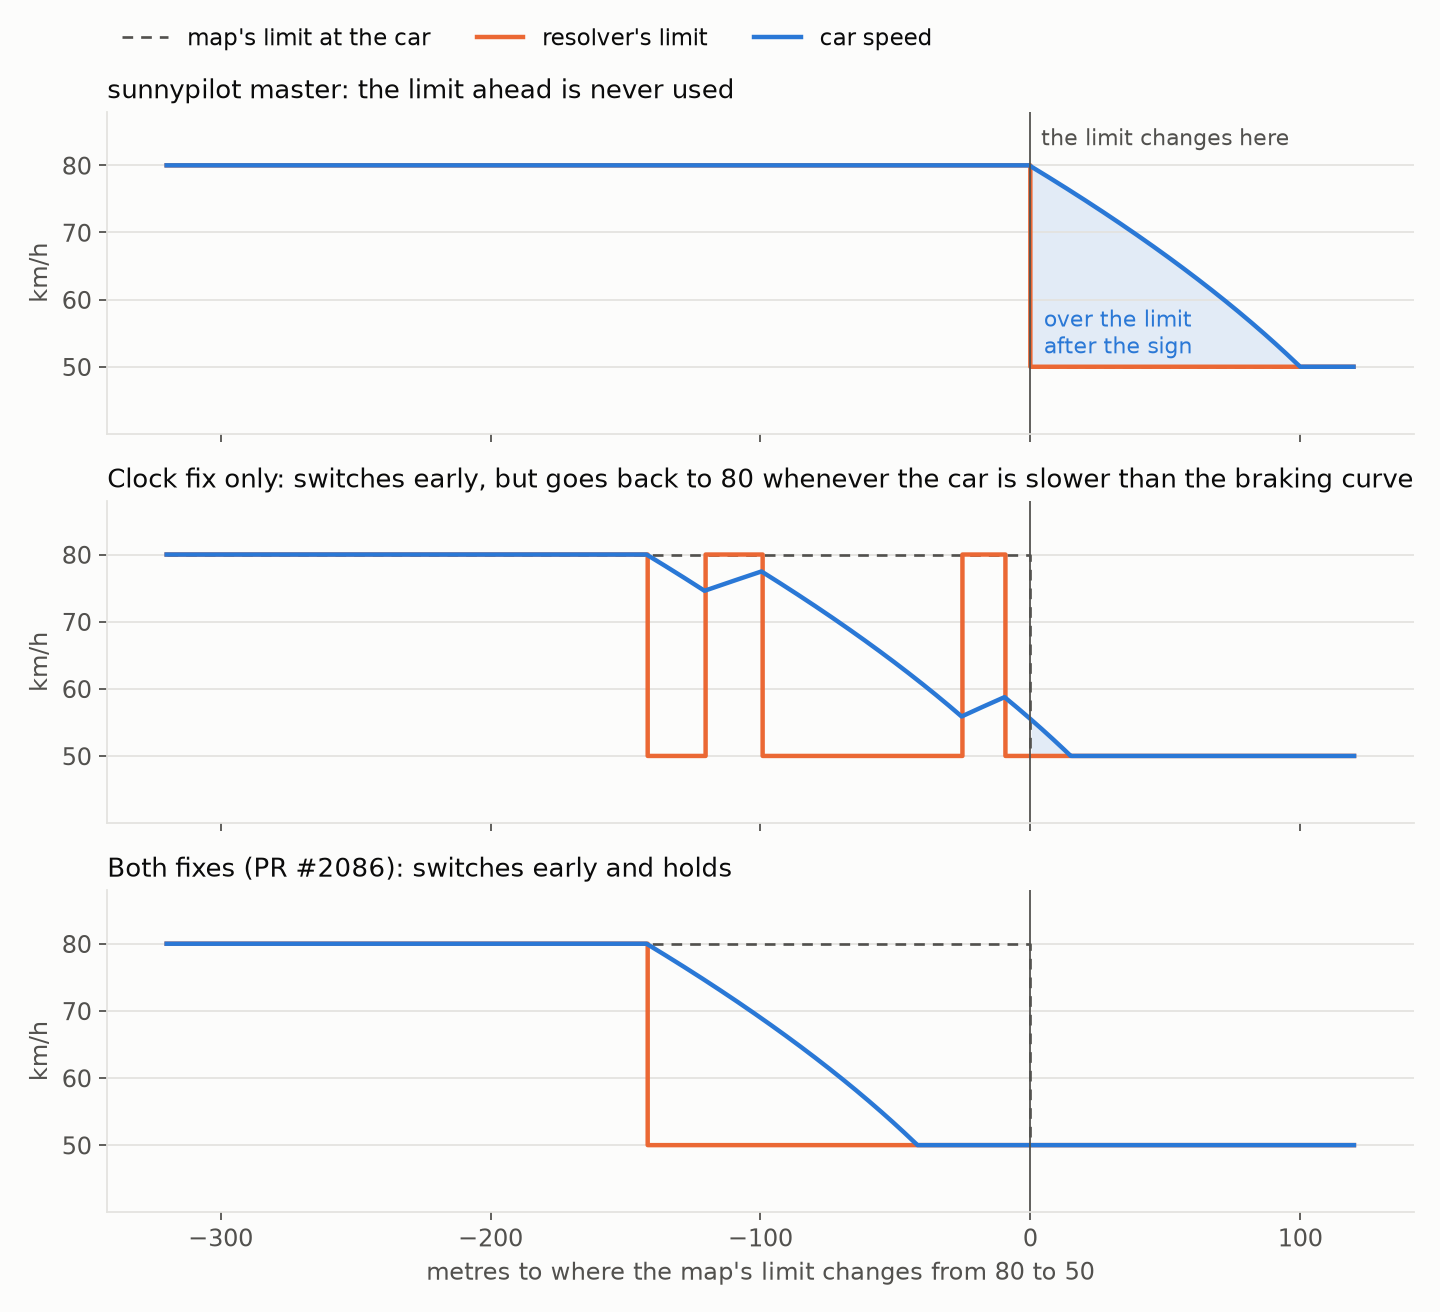
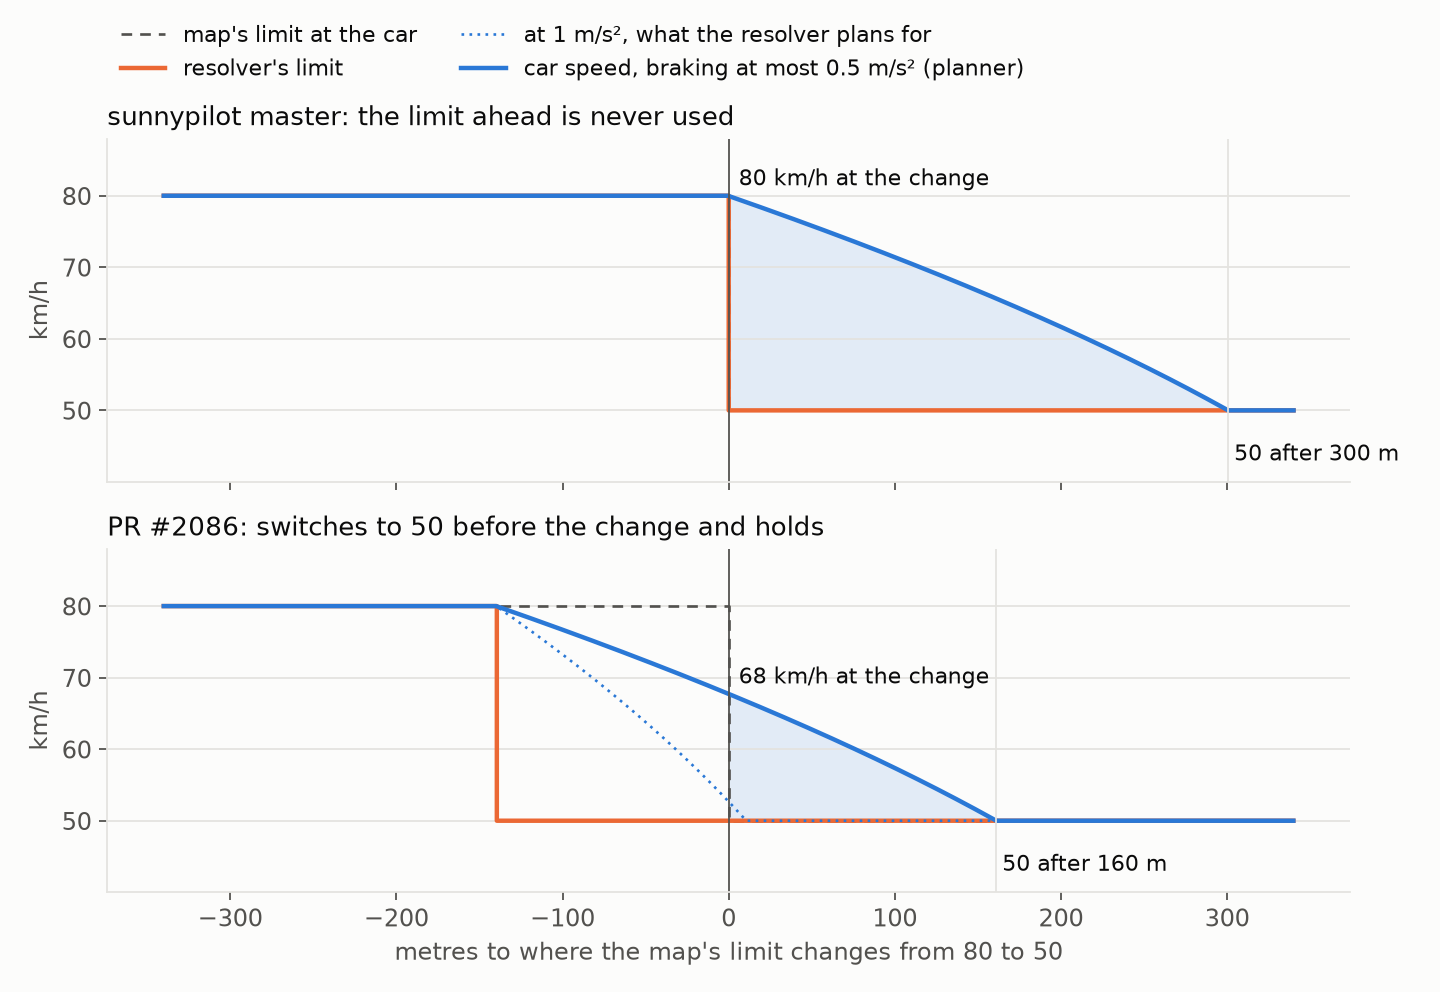
Community post on PR #2086: corrected as reviewed, the planner's 0.5 m/s² braking in the picture
The PR is open and the numbers come from resolver replays; the car still reaches the lower limit after the change
point, since the planner brakes at most at A_CRUISE_MIN; the four drops mapd never announced; pictures by absolute URL.

diff --git a/docs/community/pr-2086/make_figures.py b/docs/community/pr-2086/make_figures.py
@@ -1,5 +1,6 @@
 # The two pictures of the community post on sunnypilot PR #2086 (Speed Limit Resolver, Map Data limit ahead).
-# 1. sim.png: a simple simulation of the resolver's map logic on master, with the clock fix only, and with both fixes.
+# 1. sim.png: a simple simulation of the resolver's map logic on master and with the PR, the car braking at most as the
+#    planner does (A_CRUISE_MIN).
 # 2. replay.png: the counts measured by replaying 5 logged drives (31 drops of the map's limit, Map Data only).
 # Run: uv run --no-project --with matplotlib python docs/community/pr-2086/make_figures.py
 from pathlib import Path
@@ -12,7 +13,8 @@ import matplotlib.pyplot as plt
 OUT = Path(__file__).parent
 SURFACE, INK, MUTED, GRID = '#fcfcfb', '#0b0b0b', '#52514e', '#e4e3df'
 BLUE, ORANGE = '#2a78d6', '#eb6834'
-LIMIT_ADAPT_ACC = -1.0  # m/s², as in sunnypilot
+LIMIT_ADAPT_ACC = -1.0  # m/s², as in sunnypilot's resolver
+A_CRUISE_MIN = -0.5  # m/s², the planner's strongest braking for a lower cruise speed
 KPH = 1 / 3.6
 
 plt.rcParams.update({'font.family': 'DejaVu Sans', 'font.size': 11, 'axes.edgecolor': GRID, 'axes.labelcolor': MUTED,
@@ -28,8 +30,6 @@ def resolver(version: str, v_ego: float, current: float, ahead: float, distance:
         # the limit ahead never shrinks below the braking distance.
         distance += v_ego * 1.79e9
         v_start = v_ego
-    elif version == 'clock':
-        v_start = v_ego
     else:
         v_start = max(v_ego, current)
     if 0 < ahead < v_start:
@@ -40,20 +40,18 @@ def resolver(version: str, v_ego: float, current: float, ahead: float, distance:
     return current
 
 
-def drive(version: str):
+def drive(version: str, brake: float = -A_CRUISE_MIN):
     """A car at 80 km/h approaching an 80 -> 50 change of the map's limit; it follows the resolver's limit, braking at
-    1.5 m/s² and accelerating at 0.8 m/s². The resolver is read once a second (mapd sends the limit ahead at 1 Hz)."""
+    brake m/s². The resolver is read once a second (mapd sends the limit ahead at 1 Hz)."""
     current, ahead = 80 * KPH, 50 * KPH
-    x, v, dt, t = -320.0, current, 0.02, 0.0
+    x, v, dt, t = -340.0, current, 0.02, 0.0
     xs, speeds, limits = [], [], []
     limit = current
-    while x < 120:
+    while x < 340:
         if t % 1.0 < dt or x >= 0 > x - v * dt:
             limit = resolver(version, v, current, ahead, -x)
         if v > limit:
-            v = max(limit, v - 1.5 * dt)
-        elif v < limit:
-            v = min(limit, v + 0.8 * dt)
+            v = max(limit, v - brake * dt)
         xs.append(x)
         speeds.append(v / KPH)
         limits.append(limit / KPH)
@@ -64,16 +62,23 @@ def drive(version: str):
 
 def sim():
     rows = (('master', 'sunnypilot master: the limit ahead is never used'),
-            ('clock', 'Clock fix only: switches early, but goes back to 80 whenever the car is slower than the braking curve'),
-            ('both', 'Both fixes (PR #2086): switches early and holds'))
-    fig, axes = plt.subplots(3, 1, figsize=(9, 8.2), sharex=True, sharey=True)
+            ('pr', 'PR #2086: switches to 50 before the change and holds'))
+    fig, axes = plt.subplots(2, 1, figsize=(9, 6.2), sharex=True, sharey=True)
     for ax, (version, title) in zip(axes, rows):
         xs, speeds, limits = drive(version)
-        ax.plot([-320, 0, 0, 120], [80, 80, 50, 50], color=MUTED, lw=1.2, ls=(0, (4, 3)), label="map's limit at the car")
+        ax.plot([-340, 0, 0, 340], [80, 80, 50, 50], color=MUTED, lw=1.2, ls=(0, (4, 3)), label="map's limit at the car")
         ax.plot(xs, limits, color=ORANGE, lw=2, label="resolver's limit", drawstyle='steps-post')
-        ax.plot(xs, speeds, color=BLUE, lw=2, label='car speed')
+        if version == 'pr':
+            ideal_x, ideal_v, _ = drive(version, brake=-LIMIT_ADAPT_ACC)
+            ax.plot(ideal_x, ideal_v, color=BLUE, lw=1.2, ls=(0, (1, 2)), label='at 1 m/s², what the resolver plans for')
+        ax.plot(xs, speeds, color=BLUE, lw=2, label='car speed, braking at most 0.5 m/s² (planner)')
         ax.fill_between(xs, 50, speeds, where=[x > 0 and s > 50.5 for x, s in zip(xs, speeds)], color=BLUE, alpha=0.12,
                         lw=0)
+        at_change = next(s for x, s in zip(xs, speeds) if x >= 0)
+        reached = next(x for x, s in zip(xs, speeds) if s <= 50.05)
+        ax.text(6, at_change + 1.5, f'{at_change:.0f} km/h at the change', color=INK, fontsize=10)
+        ax.axvline(reached, color=GRID, lw=0.8)
+        ax.text(reached + 4, 43, f'50 after {round(reached, -1):.0f} m', color=INK, fontsize=10)
         ax.axvline(0, color=MUTED, lw=0.8)
         ax.set_title(title, loc='left', fontsize=11.5, color=INK, pad=6)
         ax.set_ylim(40, 88)
@@ -82,13 +87,16 @@ def sim():
         for side in ('top', 'right'):
             ax.spines[side].set_visible(False)
         ax.set_ylabel('km/h')
-    axes[0].text(4, 83, 'the limit changes here', color=MUTED, fontsize=10)
-    axes[0].text(5, 52, 'over the limit\nafter the sign', color=BLUE, fontsize=10)
     axes[-1].set_xlabel("metres to where the map's limit changes from 80 to 50")
-    handles, labels = axes[0].get_legend_handles_labels()
-    fig.legend(handles, labels, loc='upper left', ncol=3, frameon=False, bbox_to_anchor=(0.07, 0.995), fontsize=10.5,
+    handles, labels = [], []
+    for ax in axes[::-1]:
+        for h, l in zip(*ax.get_legend_handles_labels()):
+            if l not in labels:
+                handles.append(h)
+                labels.append(l)
+    fig.legend(handles, labels, loc='upper left', ncol=2, frameon=False, bbox_to_anchor=(0.07, 0.995), fontsize=10,
                labelcolor=INK)
-    fig.tight_layout(rect=(0, 0, 1, 0.96))
+    fig.tight_layout(rect=(0, 0, 1, 0.92))
     fig.savefig(OUT / 'sim.png', dpi=160)
 
 

diff --git a/docs/community/pr-2086/post.md b/docs/community/pr-2086/post.md
@@ -1,72 +1,51 @@
-# Speed Limit Resolver: the map's "limit ahead" never kicked in. Fix in PR #2086
+# Speed Limit Assist: fixing advance adaptation to lower map limits — PR #2086
 
-**TL;DR**: when the map knows that a lower limit is coming, sunnypilot is supposed to start slowing down *before* the change point. On master this never happens, because of a clock mix-up. [PR #2086](https://github.com/sunnypilot/sunnypilot/pull/2086) fixes it and makes the early switch hold until the change point.
+**TL;DR**: when the map knows that a lower limit is coming, sunnypilot is meant to start slowing down *before* the change point. On master this never happens, because of a clock mix-up. [PR #2086](https://github.com/sunnypilot/sunnypilot/pull/2086) fixes it and makes the early switch hold. The PR is open, not merged yet. The numbers below come from replaying the resolver on my logged drives, not from road tests of the fixed code.
 
 ## What should happen
 
-mapd publishes the next limit and its distance (`liveMapDataSP.speedLimitAhead` / `speedLimitAheadDistance`, the "50 in 220 m" sign on the screen). When the next limit is lower than your speed, the resolver should switch to it once the distance gets shorter than the braking distance at −1 m/s² (`LIMIT_ADAPT_ACC`). That way you are already at the new limit when you reach the sign.
+mapd publishes the next limit and its distance (the "50 in 220 m" on the screen). When the next limit is lower than your speed, the resolver should switch to it once the distance is shorter than the braking distance at 1 m/s² (`LIMIT_ADAPT_ACC`), so the car starts slowing down before the sign.
 
-## What actually happens on master
+## What happens on master
 
-There is even a `# FIXME-SP: this is not working as expected` above that code. Here is why:
+The resolver mixes two clocks (there is a `FIXME-SP` above that code):
 
 ```python
-gps_fix_age = time.monotonic() - gps_data.unixTimestampMillis * 1e-3
-distance_since_fix = self.v_ego * (time.monotonic() - gps_data.unixTimestampMillis * 1e-3)
+time.monotonic() - gps_data.unixTimestampMillis * 1e-3   # about -1.79e9 s on the device
 ```
 
-`time.monotonic()` counts seconds since boot, while `unixTimestampMillis` is Unix time. On the device the difference is about **−1.79 billion seconds**, so:
+Seconds since boot minus Unix time. The distance driven since the GPS fix comes out at about −1.79 billion seconds × speed, so the distance to the limit ahead never gets shorter than the braking distance: **the early switch never happens**, and braking only starts at the change point. The 10 s "map data too old" check never fires either. The unit tests mocked the GPS time with `time.monotonic()`, which hid the bug.
 
-- `distance_since_fix` is about `−v_ego × 1.79e9` m, so the distance to the limit ahead never gets shorter than the braking distance. **The early switch never happens**; the car only starts braking after it has passed the change point.
-- The 10 s "map data too old" check never rejects anything.
-
-The unit tests mocked `unixTimestampMillis` with `time.monotonic()`, which hid the bug.
-
-A second issue shows up once the clock is right. The switch needed `v_ego` above the next limit, and the braking distance was computed from `v_ego`. If the car slowed down a bit faster than the braking curve, or got below the new limit before the change point, the resolver went back to the higher current limit, and the car sped up again until the change point.
+A second issue shows up once the clock is right: the braking distance came from the car's speed, so when the car slowed down a bit faster than the curve, the resolver went back to the higher limit until the change point.
 
 ## The fix (2 small commits)
 
-1. Measure the ages on the same clock: the GPS age comes from `sm.recv_time` (monotonic), and the distance driven is counted from when `liveMapDataSP` was received, since mapd measures the distance when it sends it (1 Hz).
-2. Compute the braking distance from `max(v_ego, current limit)`, so the switch holds once the car has slowed down.
+1. One clock: the GPS age comes from `sm.recv_time`, and the distance driven is counted from when `liveMapDataSP` arrived (mapd measures the distance when it sends it, at 1 Hz).
+2. The braking distance comes from `max(v_ego, current limit)`, so the switch holds once the car has slowed down.
 
-```python
-gps_fix_age = time.monotonic() - sm.recv_time[self._gps_location_service]
-...
-distance_since_map_data = self.v_ego * (time.monotonic() - sm.recv_time['liveMapDataSP'])
-distance_to_speed_limit_ahead = max(0., map_data.speedLimitAheadDistance - distance_since_map_data)
-...
-v_start = max(self.v_ego, speed_limit)
-if 0. < next_speed_limit < v_start:
-  ...
-```
-
-New tests cover the early switch in five cases:
-
-- beyond the braking distance;
-- within it;
-- with the distance driven since the map data arrived;
-- holding once the car is already slower;
-- not holding before the braking distance.
+New tests cover the early switch beyond and within the braking distance, with the distance driven since the map data, and holding once the car is slower. The new cases fail on master.
 
 ## Replayed on real drives
 
-I replayed 5 of my logged drives through the resolver (policy Map Data only), covering 31 drops of the map's limit:
+I replayed 5 of my logged drives through the resolver (policy Map Data only), covering 31 drops of the map's limit. The replay feeds the logged speed and map data to the resolver: it shows when the resolver switches, not how the car would have driven.
 
-![Replay of 5 logged drives](replay.png)
+![Replay of 5 logged drives](https://raw.githubusercontent.com/cristianku/sunnypilot.speedlimits/main/docs/community/pr-2086/replay.png)
 
-- **master**: 0 early switches. The bug makes it impossible.
-- **Clock fix only**: 9 early switches, and it went back up to the higher limit 6 times before the change point.
-- **Both fixes**: 27 early switches. Only one went back up, when mapd itself stopped announcing the limit ahead.
+- **master**: 0 early switches.
+- **Clock fix only**: 9 early switches, and 6 of them went back up to the higher limit before the change point.
+- **Both fixes (the PR)**: 27 of 31, from 4 to 14 s and up to 300 m before the change. One went back up, when mapd itself stopped announcing the limit ahead. In the other 4, mapd never announced the lower limit in advance, so there was nothing to switch to.
 
-## What it looks like
+## What the car does with it
 
-This is a simple simulation, not a logged drive: a car at 80 km/h approaching an 80 → 50 change. The car brakes at 1.5 m/s² and accelerates at 0.8 m/s², and the resolver is read once a second.
+The resolver plans the switch for 1 m/s², but the longitudinal planner slows down for a lower cruise speed at most at 0.5 m/s² (`A_CRUISE_MIN`). So the car starts braking earlier and is already slower at the sign, but it still reaches the new limit after the change point, just much sooner than on master. A simple simulation, not a logged drive, of an 80 → 50 change:
 
-![80 to 50: master, clock fix only, both fixes](sim.png)
+![80 to 50: master and PR #2086](https://raw.githubusercontent.com/cristianku/sunnypilot.speedlimits/main/docs/community/pr-2086/sim.png)
+
+Speed Limit Assist's own target acceleration is not wired to the planner yet (a `TODO-SP` in `speed_limit_assist.py`); this PR does not change that.
 
 ## What it does not change
 
-- **Higher limit ahead** (50 → 60): still no early switch, by design. You do not speed up before the sign.
+- **Higher limit ahead** (50 → 60): no early switch, by design. You do not speed up before the sign.
 - **The car's own limit and the other sources**: untouched. Only the map part of the resolver changes.
 
 Feedback and logs are welcome, especially from anyone driving with Speed Limit Assist and the map as a source. The PR is [#2086](https://github.com/sunnypilot/sunnypilot/pull/2086).
